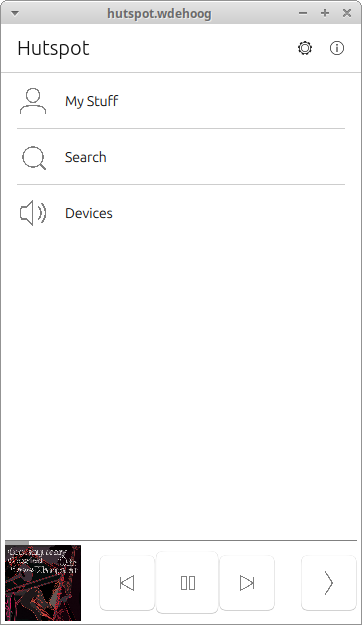
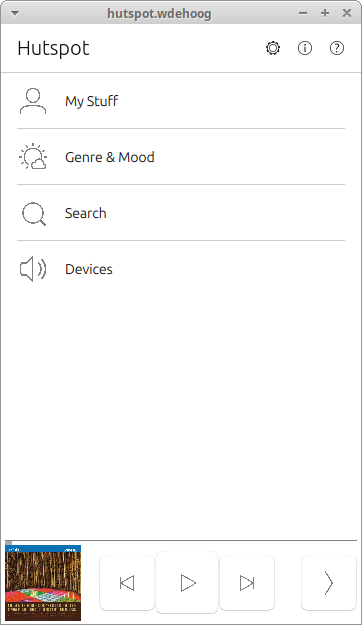
added help button on main page

diff --git a/qml/pages/Menu.qml b/qml/pages/Menu.qml
@@ -28,6 +28,11 @@ Page {
 
         trailingActionBar.actions: [
             Action {
+                iconName: "help"
+                text: i18n.tr("Help")
+                onTriggered: Qt.openUrlExternally("https://wdehoog.github.io/hutspot-ubports")
+            },
+            Action {
                 iconName: "info"
                 text: i18n.tr("About")
                 onTriggered: pageStack.push(Qt.resolvedUrl("About.qml") )

diff --git a/qml/Main.qml b/qml/Main.qml
@@ -157,7 +157,7 @@ MainView {
             pageStack.push(Qt.resolvedUrl("pages/About.qml"))
             break;
         case Util.HutspotMenuItem.ShowHelp:
-            Qt.openUrlExternally("http://sailfish-spotify.github.io/hutspot/")
+            Qt.openUrlExternally("https://wdehoog.github.io/hutspot-ubports")
             break;
         }
     }

diff --git a/docs/operating/menu.md b/docs/operating/menu.md
@@ -15,6 +15,7 @@ The menu list:
 ## Menu page
 The page header has two buttons on the right:
 
-  * Gear: Settings
-  * Info: About
+  * Question mark: open the help/information site in a browser
+  * Gear: open the Settings page
+  * Info: open the About page
 
